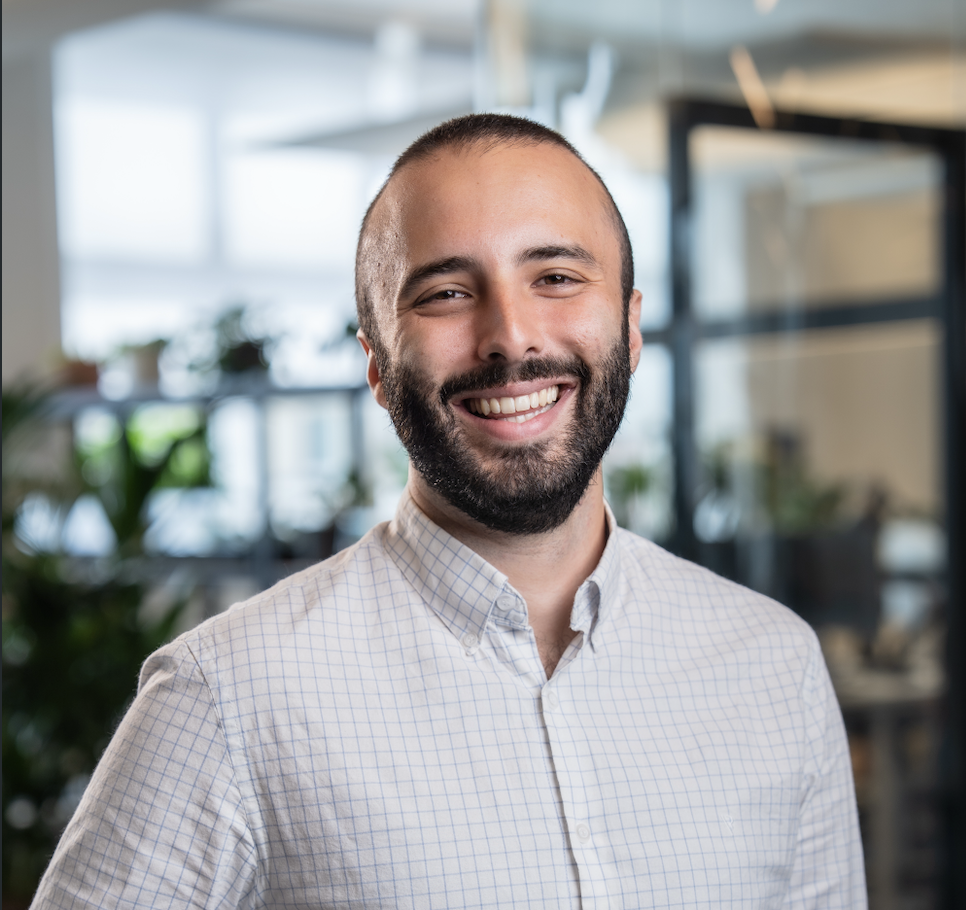
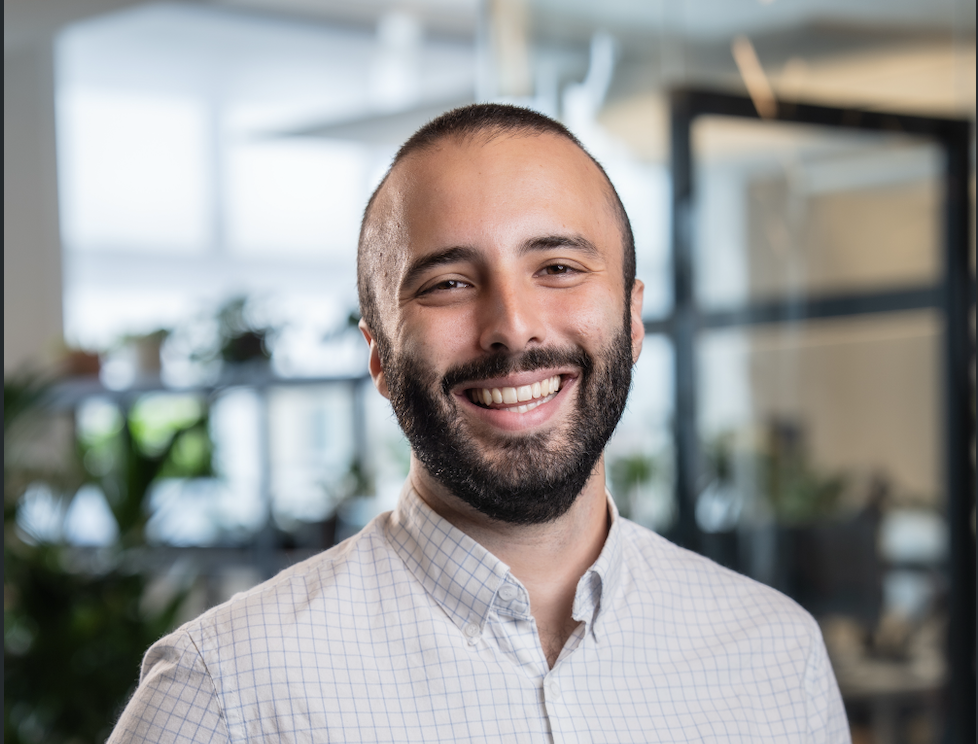
improving

diff --git a/cv_builder/templates/styles.css b/cv_builder/templates/styles.css
@@ -45,52 +45,56 @@ a:hover {
 .main-header {
     background: var(--primary);
     color: white;
-    padding: 1.5em 1em;
-    margin-bottom: 1em;
+    padding: 0.4em 1em 0.65em;
+    margin-bottom: 0.25em;
 }
 
 .header-content {
     max-width: 100%;
     display: flex;
     justify-content: space-between;
-    align-items: flex-start;
+    align-items: center;
+    gap: 0.5em;
 }
 
 .header-left {
     flex: 1;
+    min-width: 0;
 }
 
 .header-right {
     flex-shrink: 0;
-    margin-left: 1em;
 }
 
 .profile-photo {
-    width: 90px;
+    width: 78px;
     height: auto;
     border-radius: 4px;
     object-fit: cover;
 }
 
 .name {
-    font-size: 22pt;
+    font-size: 20pt;
     font-weight: 700;
     letter-spacing: -0.5px;
-    margin-bottom: 0.25em;
+    line-height: 1;
+    margin-bottom: 0.05em;
 }
 
 .label {
-    font-size: 12pt;
+    font-size: 10.5pt;
     color: rgba(255,255,255,0.85);
-    margin-bottom: 0.75em;
+    line-height: 1.1;
+    margin-bottom: 0.25em;
 }
 
 .contact-info {
     display: flex;
     flex-wrap: wrap;
-    gap: 0.5em 1.5em;
-    font-size: 9pt;
-    margin-bottom: 0.5em;
+    gap: 0.05em 0.6em;
+    font-size: 8.5pt;
+    line-height: 1.2;
+    margin-bottom: 0.05em;
 }
 
 .contact-item {
@@ -100,14 +104,15 @@ a:hover {
 .profiles {
     display: flex;
     flex-wrap: wrap;
-    gap: 0.5em 1em;
-    margin-top: 0.5em;
+    gap: 0.1em 0.35em;
+    margin-top: 0.05em;
 }
 
 a.profile {
     color: rgba(255,255,255,0.9);
-    font-size: 9pt;
-    padding: 0.15em 0.5em;
+    font-size: 8.5pt;
+    line-height: 1.1;
+    padding: 0.05em 0.35em;
     border: 1px solid rgba(255,255,255,0.4);
     border-radius: 3px;
     text-decoration: none;
@@ -126,8 +131,8 @@ a.profile:focus {
 
 .summary-section {
     background: var(--bg-alt);
-    padding: 1em;
-    margin-bottom: 1.5em;
+    padding: 0.75em;
+    margin-bottom: 0.75em;
     border-left: 3px solid var(--accent);
 }
 
@@ -137,7 +142,7 @@ a.profile:focus {
 }
 
 section {
-    margin-bottom: 1.5em;
+    margin-bottom: 1em;
 }
 
 section h2 {
@@ -147,8 +152,8 @@ section h2 {
     text-transform: uppercase;
     letter-spacing: 1px;
     border-bottom: 2px solid var(--accent);
-    padding-bottom: 0.3em;
-    margin-bottom: 0.75em;
+    padding-bottom: 0.22em;
+    margin-bottom: 0.45em;
 }
 
 .entry {
@@ -223,6 +228,13 @@ section h2 {
     margin-left: 0.5em;
 }
 
+.work-skills {
+    font-size: 9pt;
+    color: var(--text-light);
+    margin: 0.25em 0 0.5em 0;
+    font-style: italic;
+}
+
 .position-entry {
     display: flex;
     align-items: baseline;
@@ -257,20 +269,21 @@ section h2 {
 .skills-compact {
     display: flex;
     flex-direction: column;
-    gap: 0.35em;
+    gap: 0.02em;
 }
 
 .skill-row {
     display: flex;
-    gap: 0.75em;
-    font-size: 9.5pt;
-    line-height: 1.4;
+    align-items: baseline;
+    gap: 0.6em;
+    font-size: 9.3pt;
+    line-height: 1.15;
 }
 
 .skill-category {
     font-weight: 600;
     color: var(--primary);
-    min-width: 140px;
+    min-width: 132px;
     flex-shrink: 0;
 }
 

diff --git a/cv_builder/templates/modern.html b/cv_builder/templates/modern.html
@@ -32,11 +32,8 @@
     {{WORK}}
     {{EDUCATION}}
     {{SKILLS}}
+    {{OTHER_EXPERIENCES}}
     {{LANGUAGES}}
     {{AWARDS}}
-
-    <footer class="main-footer">
-        <p class="generated-at">Generated on {{GENERATED_DATE}}</p>
-    </footer>
 </body>
 </html>

diff --git a/cv_builder/generator.py b/cv_builder/generator.py
@@ -39,6 +39,7 @@ class CVGenerator:
         work_html = self._render_work(data.get("work", []))
         education_html = self._render_education(data.get("education", []))
         skills_html = self._render_skills(data.get("skills", {}))
+        other_experiences_html = self._render_other_experiences(data.get("otherExperiences", []))
         languages_html = self._render_languages(data.get("languages", []))
         awards_html = self._render_awards(data.get("awards", []))
 
@@ -61,6 +62,7 @@ class CVGenerator:
             "{{WORK}}": work_html,
             "{{EDUCATION}}": education_html,
             "{{SKILLS}}": skills_html,
+            "{{OTHER_EXPERIENCES}}": other_experiences_html,
             "{{LANGUAGES}}": languages_html,
             "{{AWARDS}}": awards_html,
             "{{GENERATED_DATE}}": datetime.now().strftime("%Y-%m-%d"),
@@ -109,6 +111,8 @@ class CVGenerator:
             summary = w.get("summary", "")
             highlights = w.get("highlights", [])
             positions = w.get("positions", [])
+            skills = w.get("skills", [])
+            skills_html = f'<div class="work-skills">{" • ".join(skills)}</div>' if skills else ""
 
             if positions:
                 end_display = end if end else "Present"
@@ -118,6 +122,7 @@ class CVGenerator:
                         <span class="company-name">{name}</span>
                         <span class="company-tenure">({start} – {end_display})</span>
                     </div>
+                    {skills_html}
                 '''
                 for pos in positions:
                     pos_start = self._format_date(pos.get("startDate", ""))
@@ -141,19 +146,19 @@ class CVGenerator:
                 html += '</div>'
             else:
                 position = w.get("position", "")
-                if not position:
-                    position = "Unknown Position"
                 end_display = end if end else "Present"
+                position_html = f'''<div class="position-entry">
+                        <span class="position-marker">&#9679;</span>
+                        <span class="position-title">{position}</span>
+                    </div>''' if position else ''
                 html += f'''
                 <div class="work-entry">
                     <div class="company-header">
                         <span class="company-name">{name}</span>
                         <span class="company-tenure">({start} – {end_display})</span>
                     </div>
-                    <div class="position-entry">
-                        <span class="position-marker">●</span>
-                        <span class="position-title">{position}</span>
-                    </div>
+                    {skills_html}
+                    {position_html}
                 '''
                 if summary:
                     html += f'<p class="summary">{summary}</p>'
@@ -289,6 +294,23 @@ class CVGenerator:
                 </div>
                 {f'<p class="subtitle">{awarder}</p>' if awarder else ''}
                 {f'<p class="summary">{summary}</p>' if summary else ''}
+            </div>
+            '''
+        html += '</section>'
+        return html
+
+    def _render_other_experiences(self, experiences: list) -> str:
+        if not experiences:
+            return ""
+        html = '<section class="other-experiences"><h2>Other Experiences</h2>'
+        for e in experiences:
+            title = e.get("title", "")
+            description = e.get("description", "")
+
+            html += f'''
+            <div class="other-exp-entry">
+                <div class="other-exp-title">{title}</div>
+                {f'<p class="other-exp-desc">{description}</p>' if description else ''}
             </div>
             '''
         html += '</section>'
